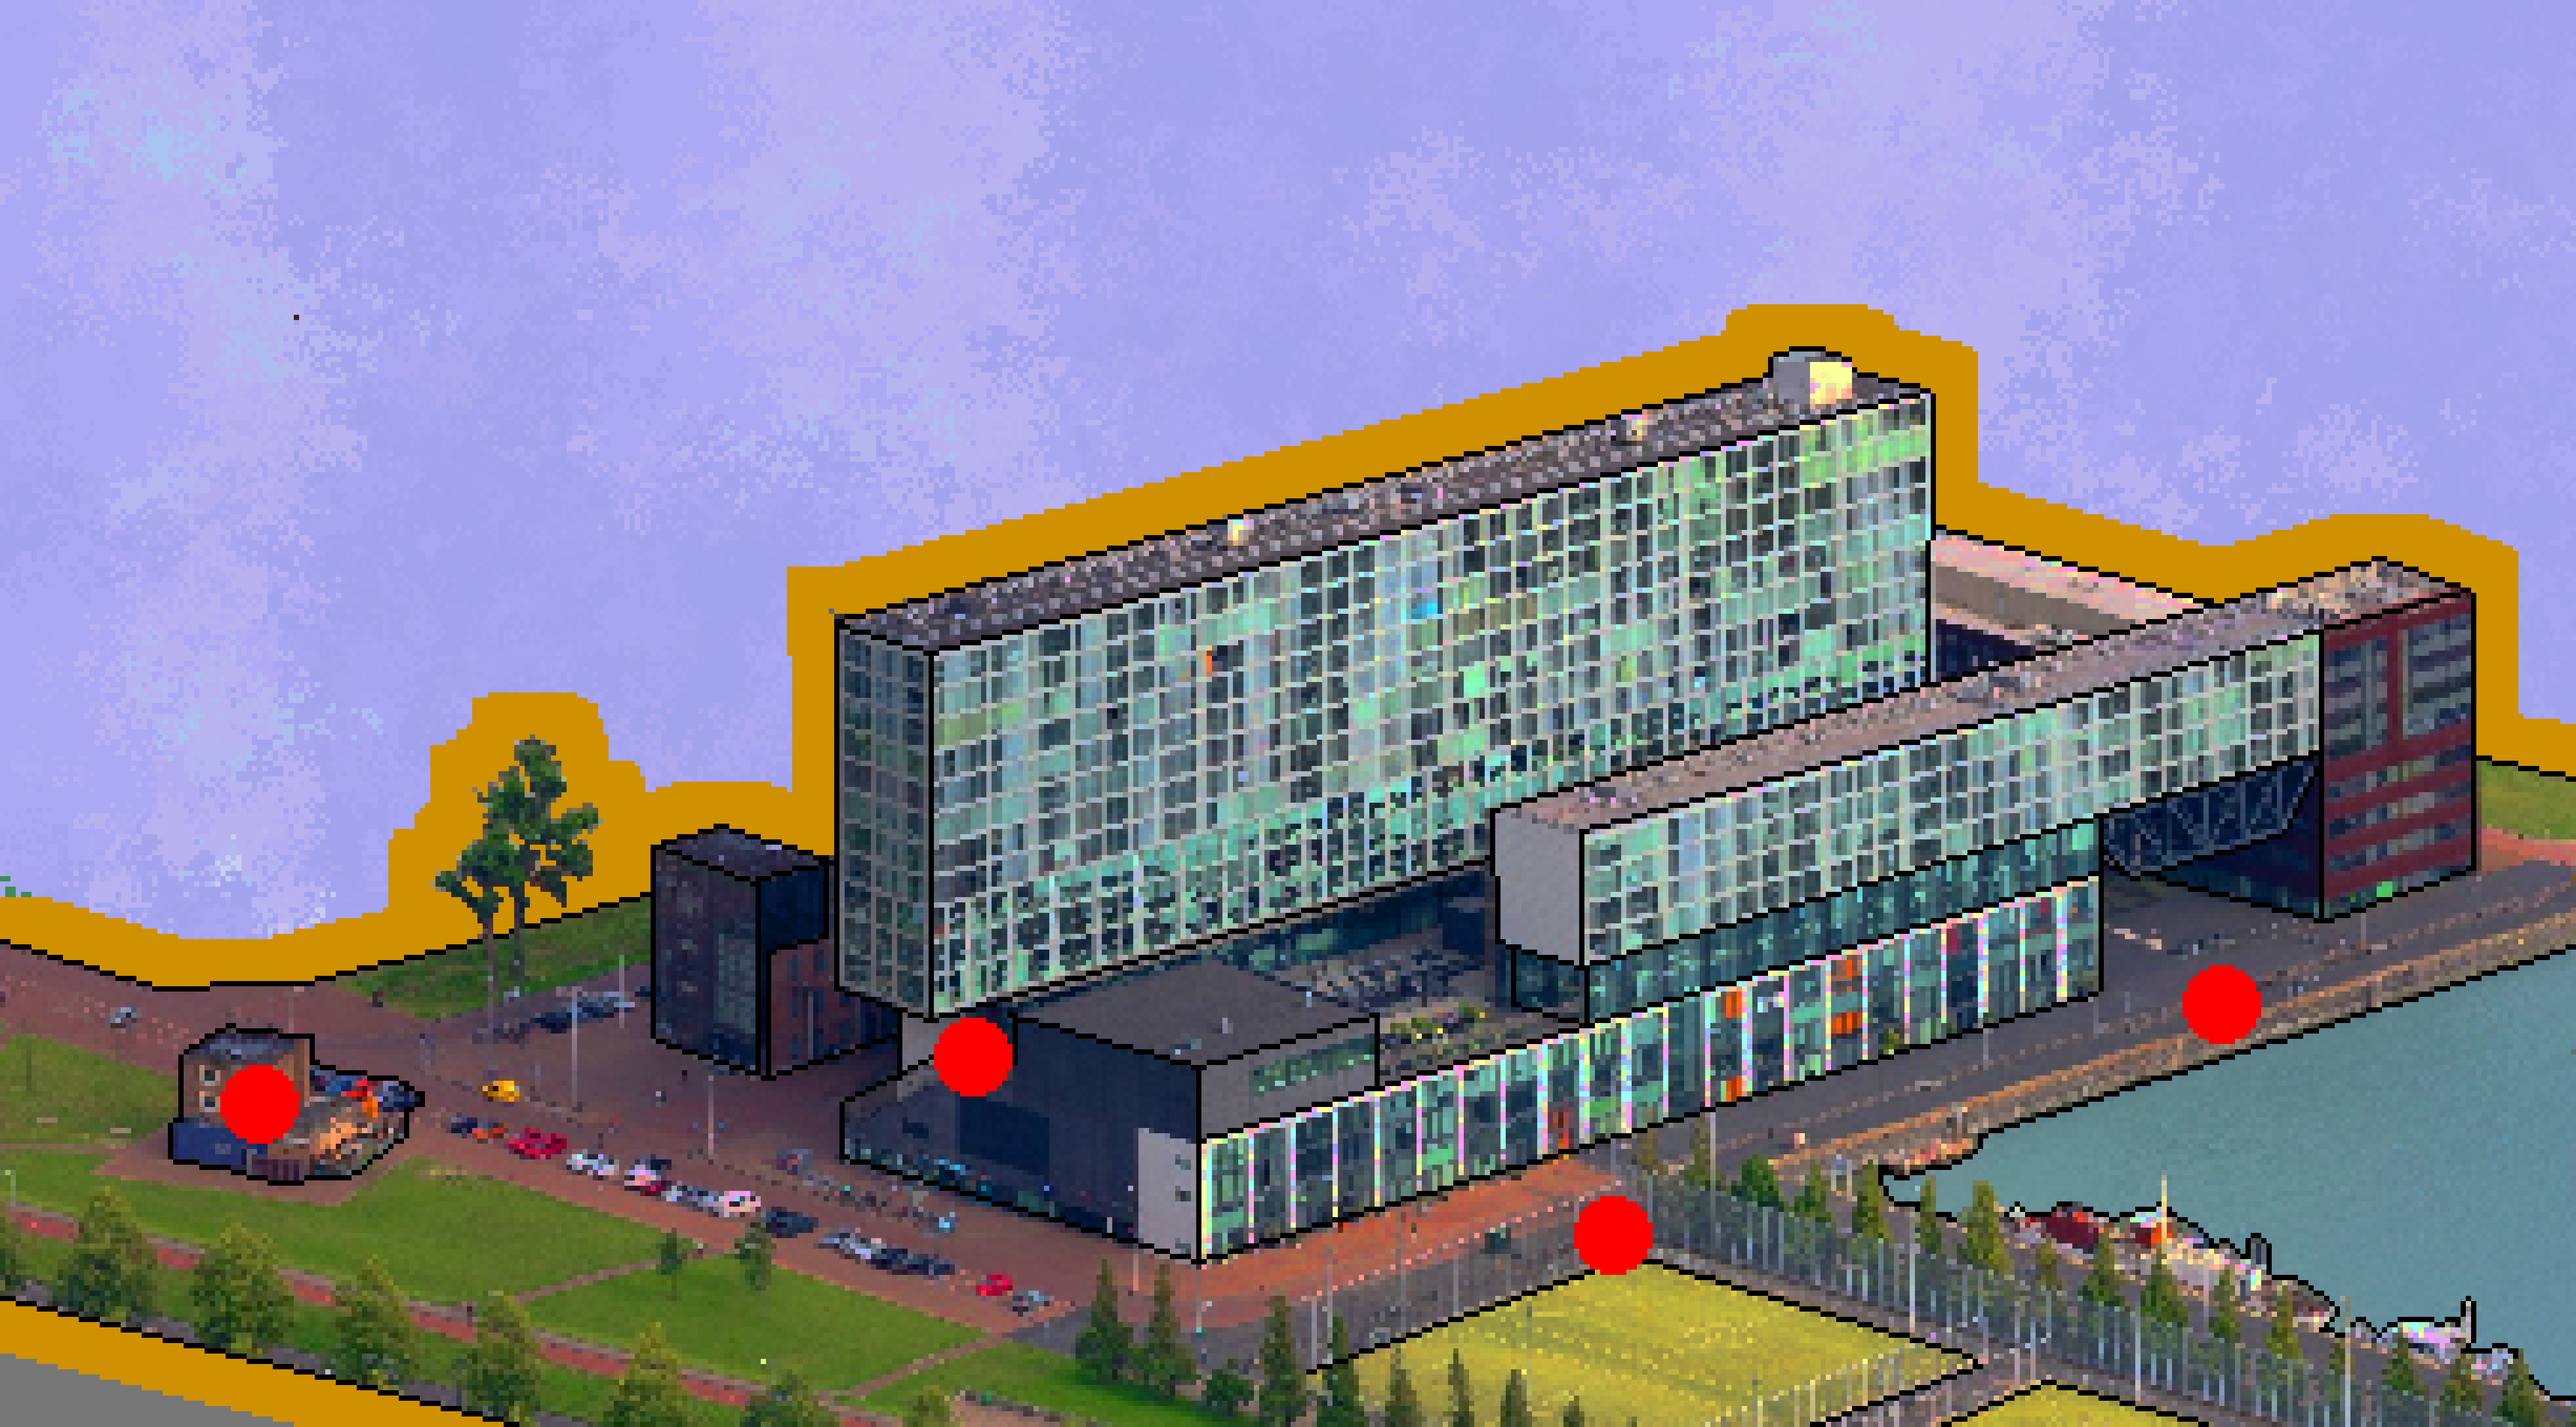
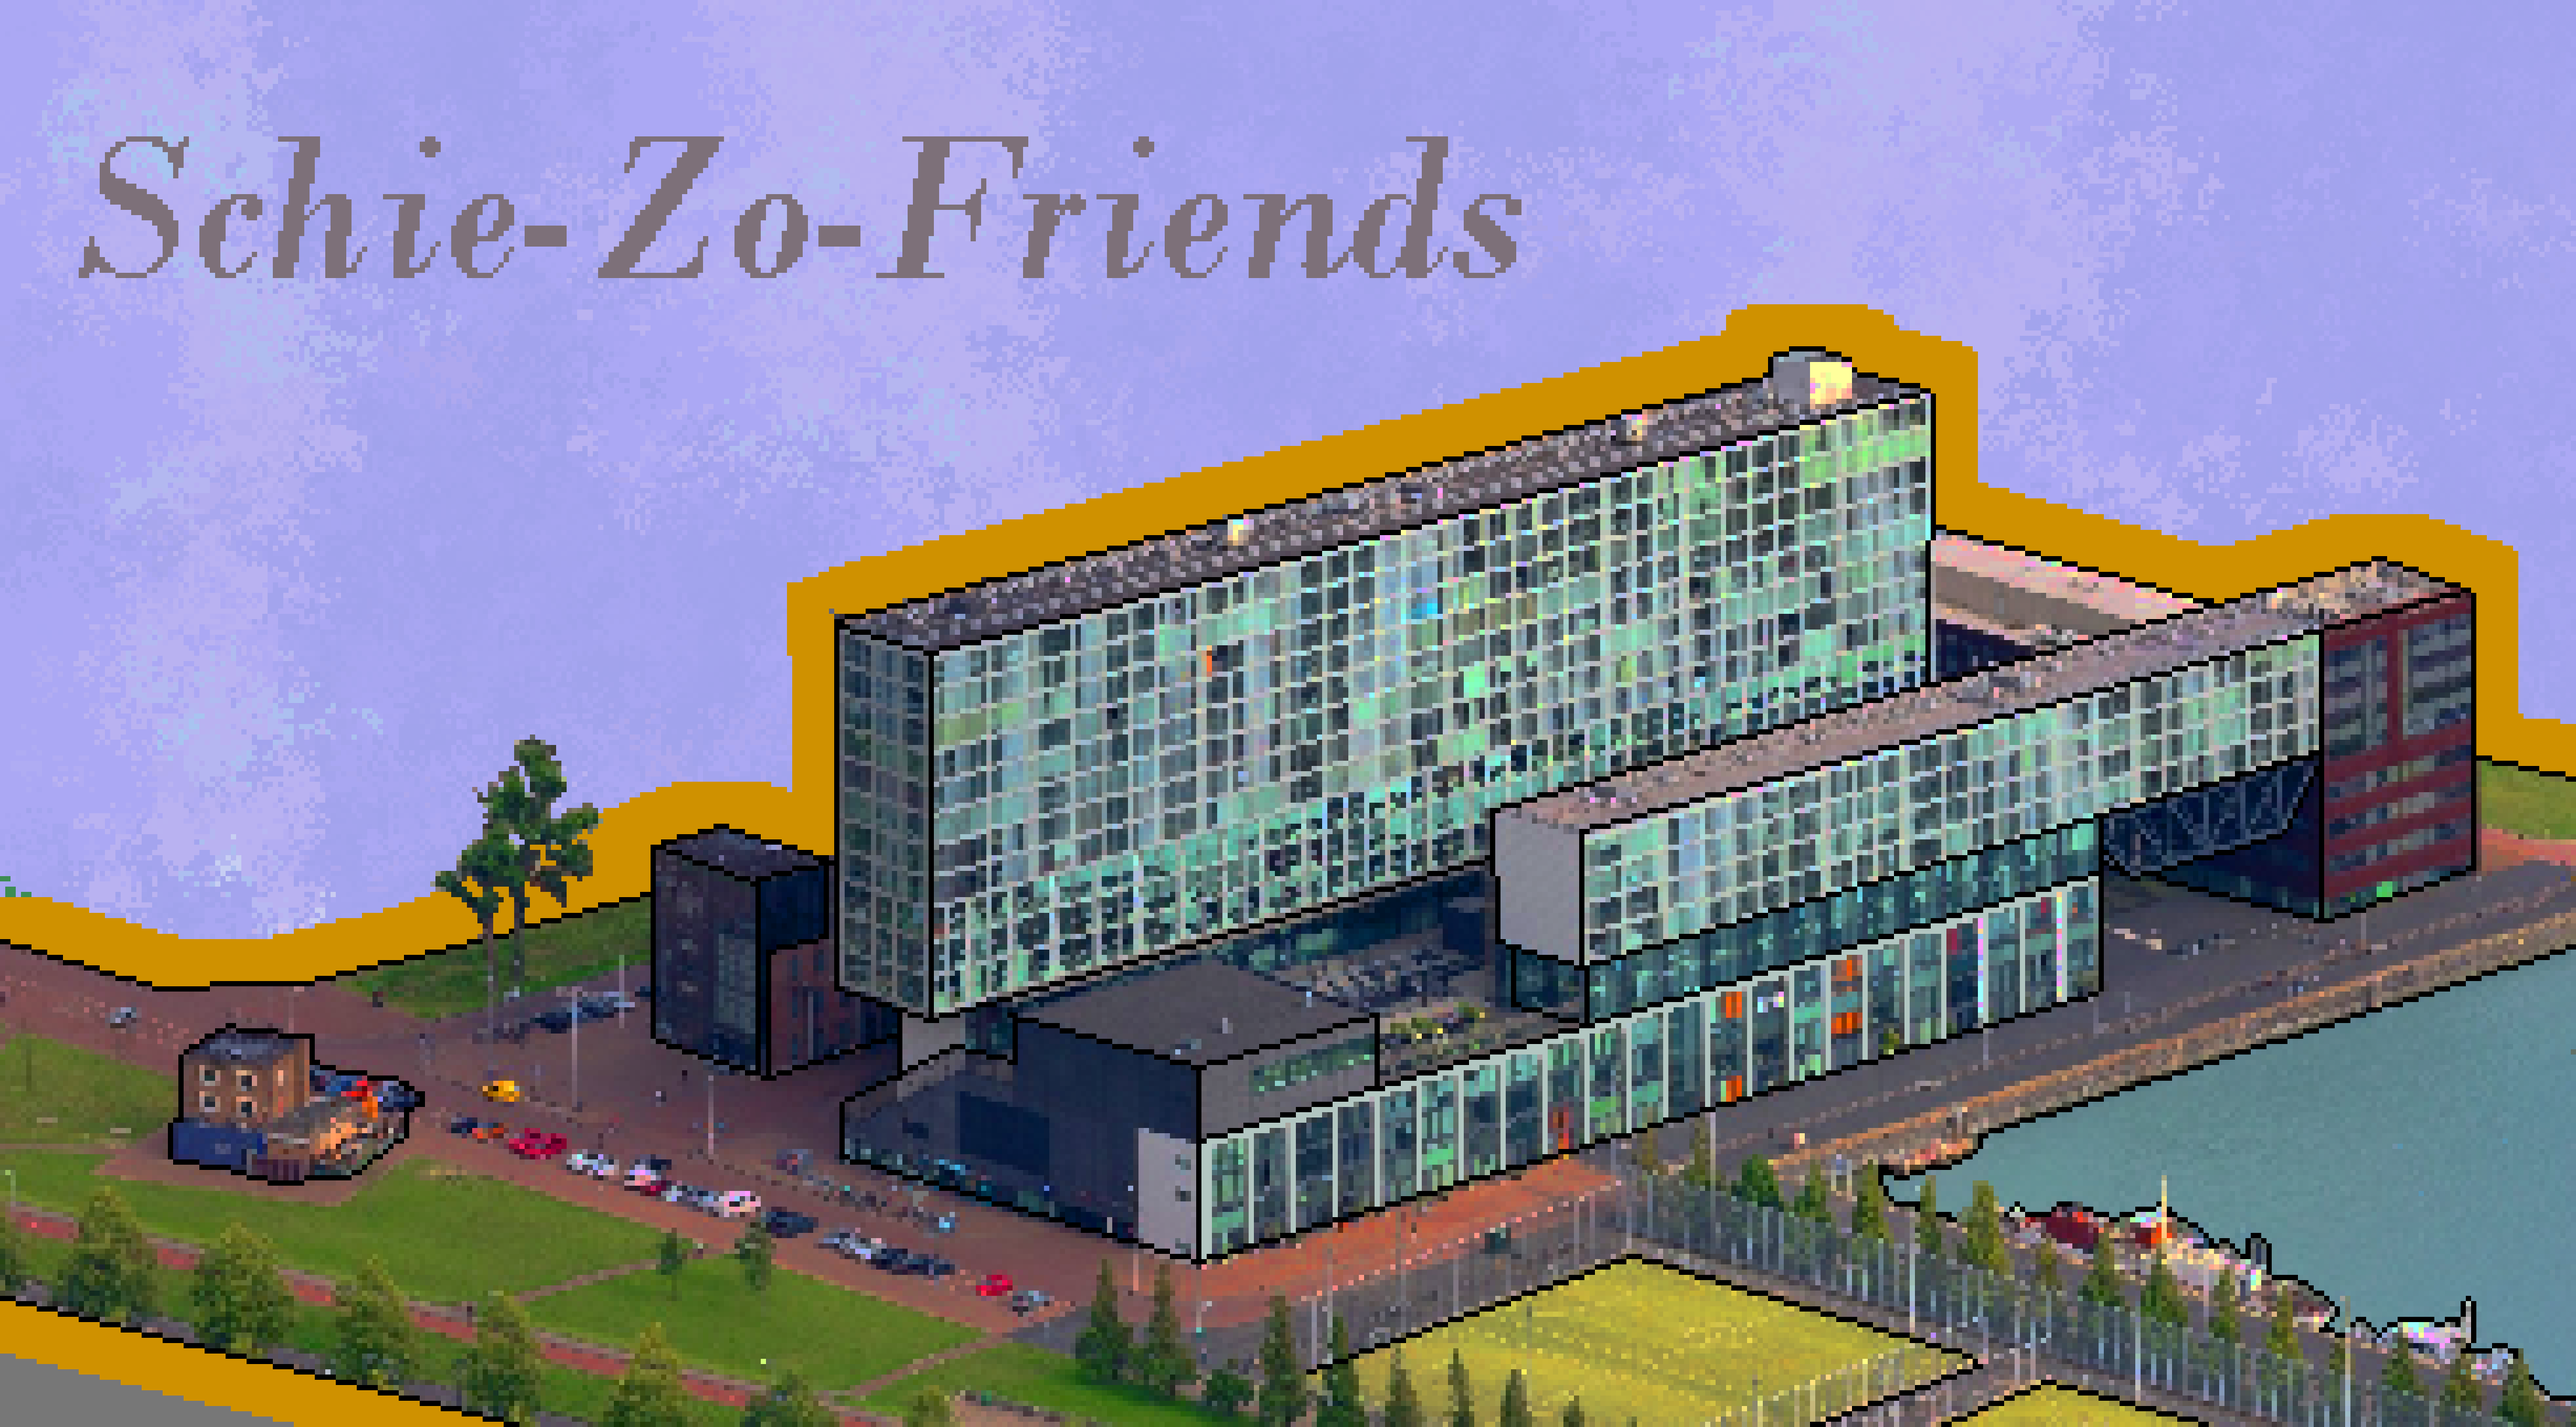
chartreuze

diff --git a/src/js/game.js b/src/js/game.js
@@ -30,6 +30,8 @@ export class Game extends Engine {
 
     startGame() {
 
+        const lobby = new Lobby(this);
+        this.addScene('lobby', lobby);
 
         // Register other scenes
         this.addScene('bossfight', new BossFightScene());
@@ -63,6 +65,8 @@ export class Game extends Engine {
         const voedbalveld = new Level1();
         this.addScene('voedbalveld', voedbalveld);
         this.goToScene('voedbalveld');
+
+
     }
 
     showlevel2() {

diff --git a/src/js/lobby.js b/src/js/lobby.js
@@ -47,9 +47,9 @@ export class Lobby extends Scene {
 
             const circleGraphic = new Circle({
                 radius: triggerPos.radius,
-                color: Color.Red,
-                strokeColor: Color.Transparent,
-                lineWidth: 0
+                color: Color.Transparent,
+                strokeColor: Color.Chartreuse,
+                lineWidth: 10
             });
 
             trigger.graphics.use(circleGraphic);

diff --git a/src/js/intro.js b/src/js/intro.js
@@ -48,9 +48,7 @@ export class Intro extends Scene {
 
     }
 
-    onActivate(context) {
-
-    }
+   
 }
 
 
